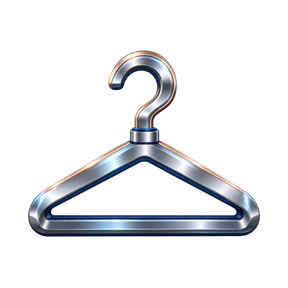
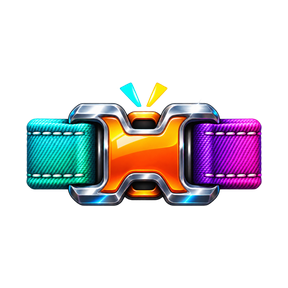
style(ui): color the wear action buckle

diff --git a/docs/designs/3x-asset-library/collectible-ui.md b/docs/designs/3x-asset-library/collectible-ui.md
@@ -20,7 +20,7 @@
 | 母檔 | 圖案 | 遊戲用圖檔 |
 | --- | --- | --- |
 | `currency-master.webp` | 黃金疊幣，前方大幣及後方頂幣各有一個浮雕 ＄ | `collectible-ui/currency@3x.webp`（72 px）；`wave3-demo/raster/wallet-coin@3x.webp`（144 px） |
-| `clothing-master.webp` | 鈦銀衣架，帶深藍嵌邊與暖金倒角 | `collectible-ui/clothing@3x.webp` |
+| `clothing-master.webp` | 扣合中的金屬扣具，青綠與紫紅織帶配橘色扣心 | `collectible-ui/clothing@3x.webp` |
 | `inspect-master.webp` | 四角金屬取景框與正面車頭 | `collectible-ui/inspect@3x.webp` |
 | `paint-master.webp` | 鈷藍珠光、洋紅和金色三張烤漆色樣 | `collectible-ui/paint@3x.webp` |
 

diff --git a/TODO.md b/TODO.md
@@ -1,3 +1,8 @@
+# 立即穿戴彩色扣具（2026-11-21）
+
+- [x] 將選定的扣具轉成透明 72 px WebP。24 px 檢查確認青綠、橘色與紫紅三色可辨。
+- [ ] 合併候選完整 CI。
+
 # 雙＄試玩金幣、原版鑽石與衣架圖示（2026-11-21）
 
 - [x] 雙＄金幣輸出為 72 與 144 px 透明 WebP，穿戴改用金屬衣架。
